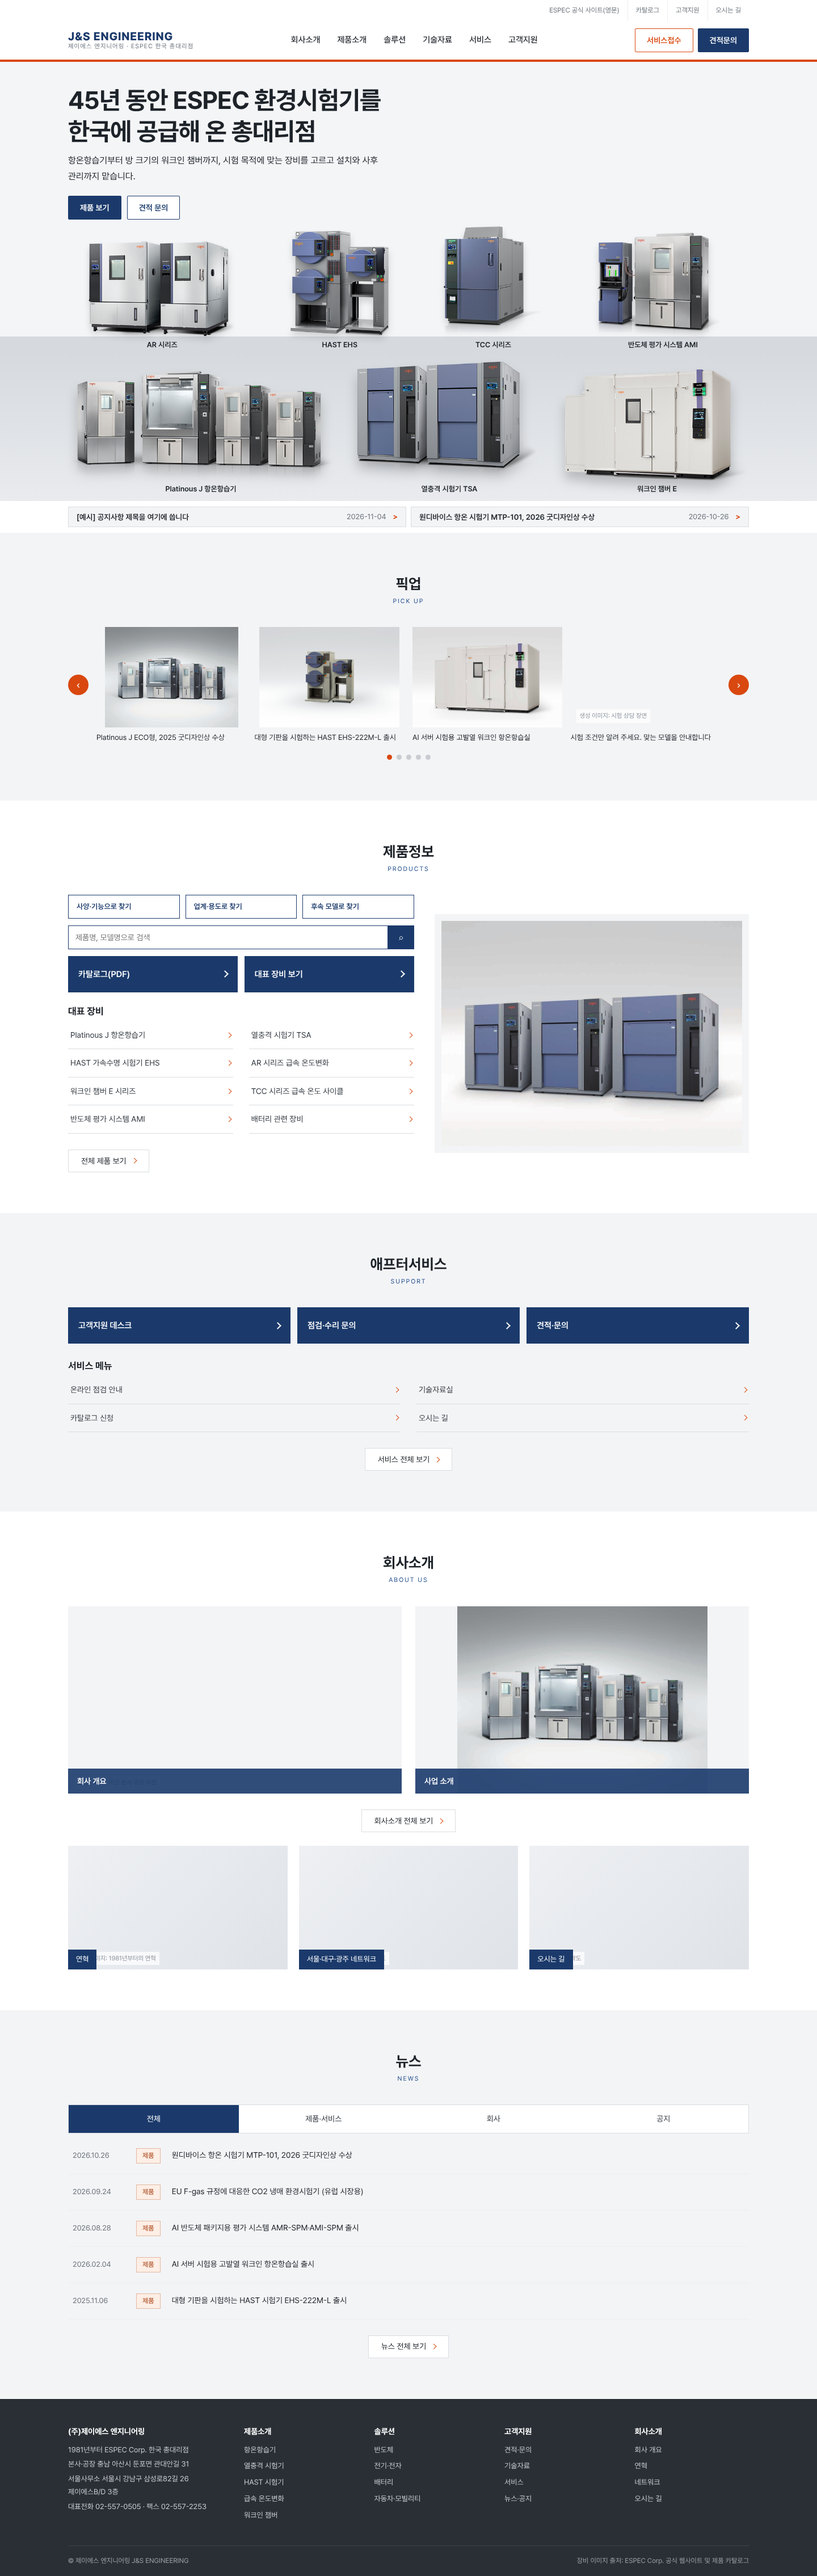
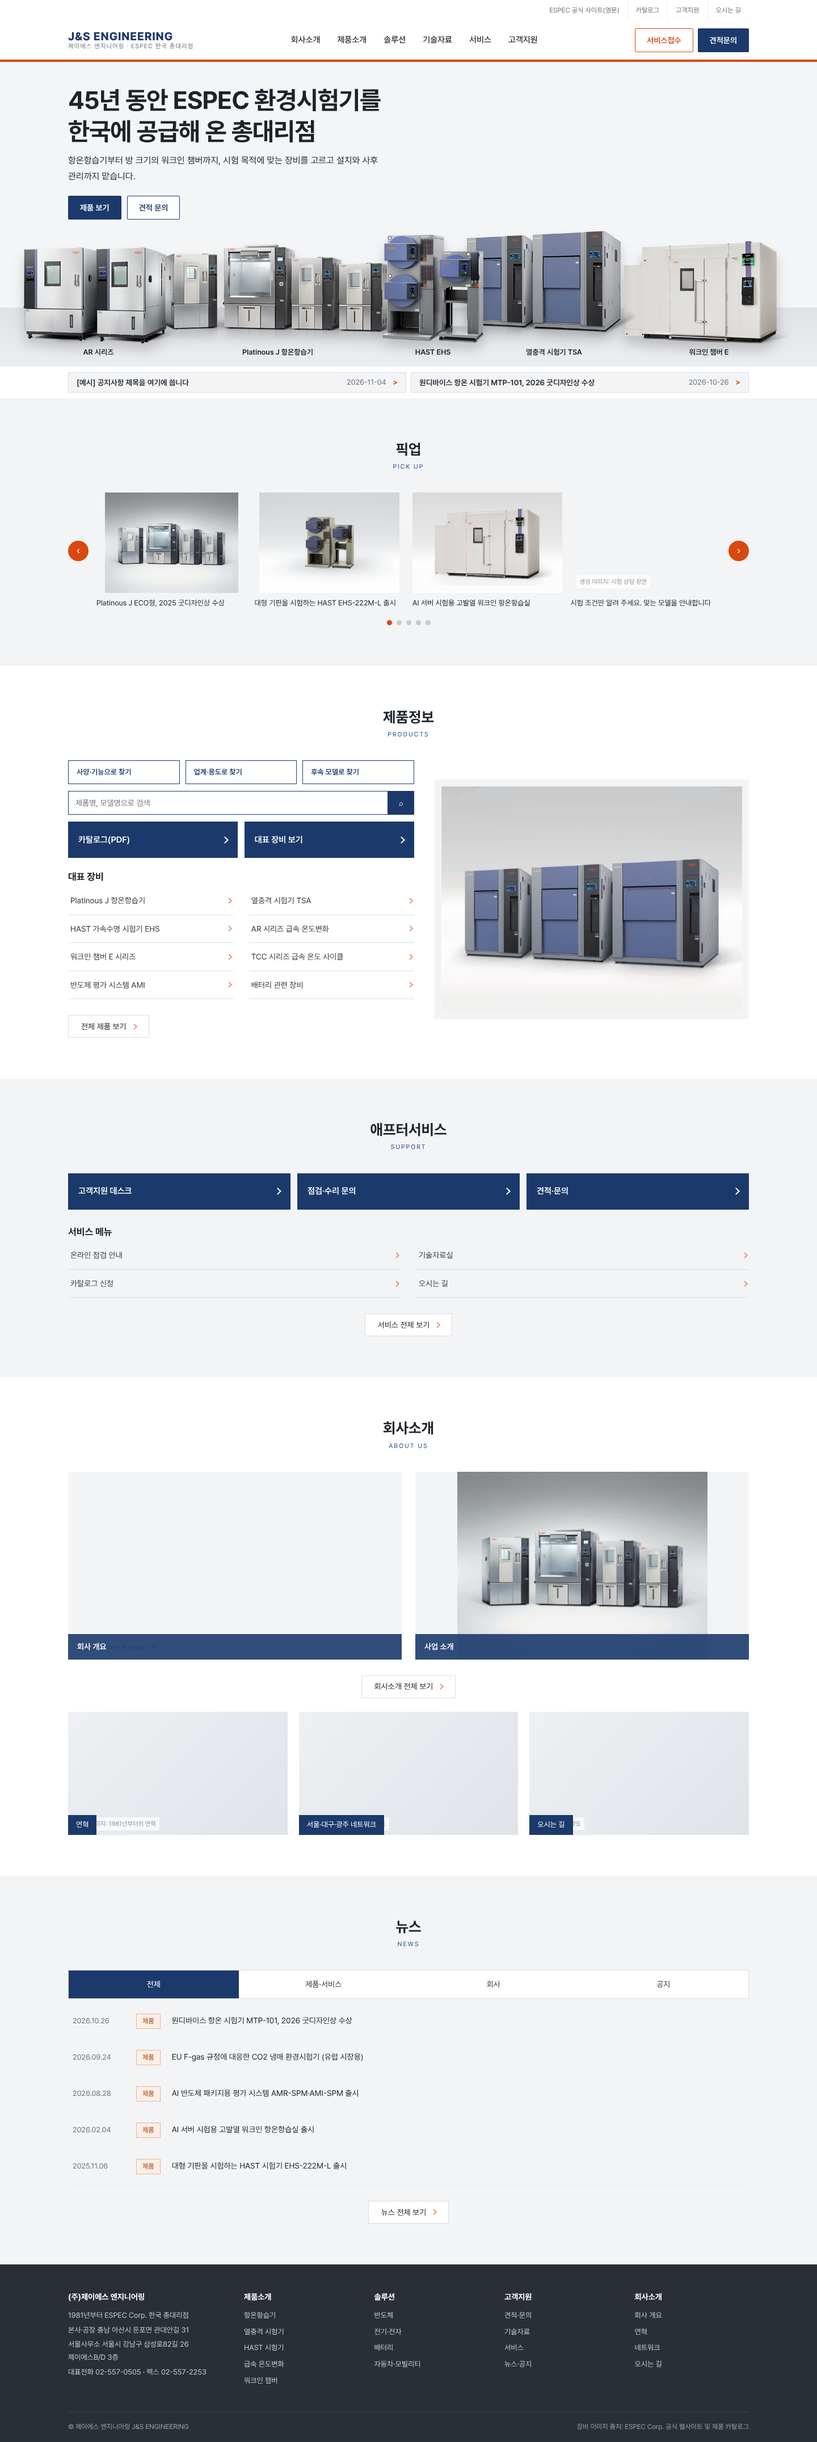
Main concept: back to 5 machines in one row (G1 showroom), G2–G4 heroes trimmed to 5
Claude-Session: https://claude.ai/code/session_01XB7A39iFN7xUh5xw32a7qZ

diff --git a/design/concepts5/main-final.html b/design/concepts5/main-final.html
@@ -22,34 +22,29 @@
 </header>
 
 <main>
-<!-- ============ 첫 화면 G1: 쇼룸 2단 (기본 표시) ============ -->
+<!-- ============ 첫 화면 G1: 쇼룸 5종 한 줄 (기본 표시) ============ -->
 <section class="hero hero--g1" data-hero="g1" aria-labelledby="g1-h">
   <div class="wrap top">
     <h1 id="g1-h">45년 동안 ESPEC 환경시험기를<br>한국에 공급해 온 총대리점</h1>
     <p class="sub">항온항습기부터 방 크기의 워크인 챔버까지, 시험 목적에 맞는 장비를 고르고 설치와 사후 관리까지 맡습니다.</p>
     <div class="btns"><a class="btn" href="#">제품 보기</a><a class="btn btn--line" href="#">견적 문의</a></div>
   </div>
-  <div class="tier tier--back">
-    <div class="wrap"><div class="row">
-      <figure class="b-ar"><a href="#"><img src="../../site/assets/img/web/ar-series-mv.png" width="420" height="262" alt="AR 시리즈 급속 온도변화 시험기"><figcaption>AR 시리즈</figcaption></a></figure>
-      <figure class="b-hast"><a href="#"><img src="../../site/assets/img/web/hast-ehs-mv.png" width="277" height="300" alt="HAST 가속수명 시험기 EHS"><figcaption>HAST EHS</figcaption></a></figure>
-      <figure class="b-tcc"><a href="#"><img src="../../site/assets/img/web/tcc150-mv.png" width="274" height="303" alt="TCC 시리즈 급속 온도 사이클 시험기"><figcaption>TCC 시리즈</figcaption></a></figure>
-      <figure class="b-ami"><a href="#"><img src="../../site/assets/img/web/semicon-ami-mv.png" width="371" height="293" alt="반도체 평가 시스템 AMI"><figcaption>반도체 평가 시스템 AMI</figcaption></a></figure>
-    </div></div>
-  </div>
-  <div class="tier tier--front">
-    <div class="wrap"><div class="row">
-      <figure class="f-pj"><a href="#"><img src="../../site/assets/img/web/platinous-j-mv.png" width="660" height="270" alt="Platinous J 항온항습기"><figcaption>Platinous J 항온항습기</figcaption></a></figure>
-      <figure class="f-tsa"><a href="#"><img src="../../site/assets/img/web/tsa-thermal-shock-mv.png" width="460" height="300" alt="열충격 시험기 TSA"><figcaption>열충격 시험기 TSA</figcaption></a></figure>
-      <figure class="f-wk"><a href="#"><img src="../../site/assets/img/web/walk-in-chamber-tbe-mv.png" width="465" height="280" alt="워크인 챔버 E 시리즈"><figcaption>워크인 챔버 E</figcaption></a></figure>
-    </div></div>
+  <!-- 쇼룸: 대표 장비 5종 한 줄 (살짝 겹쳐 세움) -->
+  <div class="tier tier--one">
+    <div class="row5">
+      <figure class="o-ar"><a href="#"><img src="../../site/assets/img/web/ar-series-mv.png" width="406" height="262" alt="AR 시리즈 급속 온도변화 시험기"><figcaption>AR 시리즈</figcaption></a></figure>
+      <figure class="o-pj"><a href="#"><img src="../../site/assets/img/web/platinous-j-mv.png" width="655" height="269" alt="Platinous J 항온항습기"><figcaption>Platinous J 항온항습기</figcaption></a></figure>
+      <figure class="o-hast"><a href="#"><img src="../../site/assets/img/web/hast-ehs-mv.png" width="277" height="294" alt="HAST 가속수명 시험기 EHS"><figcaption>HAST EHS</figcaption></a></figure>
+      <figure class="o-tsa"><a href="#"><img src="../../site/assets/img/web/tsa-thermal-shock-mv.png" width="469" height="304" alt="열충격 시험기 TSA"><figcaption>열충격 시험기 TSA</figcaption></a></figure>
+      <figure class="o-wk"><a href="#"><img src="../../site/assets/img/web/walk-in-chamber-tbe-mv.png" width="460" height="278" alt="워크인 챔버 E 시리즈"><figcaption>워크인 챔버 E</figcaption></a></figure>
+    </div>
   </div>
 </section>
 
-<!-- ============ 첫 화면 G2: 카탈로그 8칸 ============ -->
+<!-- ============ 첫 화면 G2: 카탈로그 5칸 ============ -->
 <section class="hero hero--g2" data-hero="g2" aria-labelledby="g2-h" hidden>
   <div class="wrap g2-top">
-    <h1 id="g2-h">제품 신뢰성을 확인하는<br>환경시험기 일곱 가지</h1>
+    <h1 id="g2-h">제품 신뢰성을 확인하는<br>환경시험기 다섯 가지</h1>
     <p>제이에스 엔지니어링은 1981년부터 ESPEC 환경시험기를 한국에 공급해 왔습니다. 시험 조건을 알려 주시면 맞는 모델을 안내합니다.</p>
   </div>
   <div class="wrap" style="padding-bottom:40px">
@@ -59,25 +54,20 @@
       <article class="g2-cell"><div class="ph"><img src="assets/catalog/ehs-lineup.jpg" alt="HAST EHS 시리즈 세 대"></div><h2>EHS 시리즈</h2><p class="t">HAST 가속수명 시험기</p><p class="d">고온·고습·가압을 동시에 가해 전자부품의 수명을 짧은 시간에 평가합니다.</p><div class="kpi"><b>0.392MPa</b><small>압력 (Gauge, EHS-412)</small></div><a class="arr" href="#">제품 보기</a></article>
       <article class="g2-cell"><div class="ph"><img src="assets/catalog/ar-pair.jpg" alt="AR 시리즈 두 대"></div><h2>AR 시리즈</h2><p class="t">급속 온도변화 시험기</p><p class="d">온도를 빠르게 오르내려 온도 사이클과 습열 시험을 맡습니다. 2019 굿디자인상.</p><div class="kpi"><b>최대 18K/min</b><small>급속형 온도 변화율</small></div><a class="arr" href="#">제품 보기</a></article>
       <article class="g2-cell"><div class="ph"><img src="assets/catalog/walkin-white.jpg" alt="워크인 챔버 E 시리즈"></div><h2>워크인 챔버 E</h2><p class="t">대형 항온항습 시험실</p><p class="d">사람이 들어가는 방 크기의 시험 공간. 차량, 대형 장비, AI 서버 시험에 씁니다.</p><div class="kpi"><b>4.2 ~ 52.7m³</b><small>용적 (1type ~ 12type)</small></div><a class="arr" href="#">제품 보기</a></article>
-      <article class="g2-cell"><div class="ph"><img src="../../site/assets/img/web/tcc150-mv.png" width="274" height="303" alt="TCC 시리즈 급속 온도 사이클 시험기"></div><h2>TCC 시리즈</h2><p class="t">급속 온도 사이클 시험기</p><p class="d">반도체 패키지와 실장 기판의 열피로 시험을 위해 시험품 온도를 제어하며 급속으로 바꿉니다.</p><div class="kpi"><b>-70 ~ +180°C</b><small>온도 범위 (JEDEC·IPC 규격 대응)</small></div><a class="arr" href="#">제품 보기</a></article>
-      <article class="g2-cell"><div class="ph"><img src="../../site/assets/img/web/semicon-ami-mv.png" width="371" height="293" alt="반도체 평가 시스템 AMI"></div><h2>AMI-SPM</h2><p class="t">반도체 평가 시스템</p><p class="d">미세 배선과 신소재 절연층의 절연 열화를 저전압에서 고정밀로 잡아냅니다.</p><div class="kpi"><b>최대 300ch</b><small>AMI-SPM 랙당 채널</small></div><a class="arr" href="#">제품 보기</a></article>
-      <article class="g2-cell g2-cell--cta"><h2>시험 조건만 알려 주세요</h2><p class="d" style="flex:none">맞는 모델을 안내하고, 장비 소개 PDF를 보내 드립니다.</p><a class="btn" href="#">장비 소개 PDF 받기</a><a class="btn btn--line" href="#">전체 제품 보기</a></article>
     </div>
   </div>
 </section>
 
-<!-- ============ 첫 화면 G3: 탭 전환 7개 (CSS 라디오) ============ -->
+<!-- ============ 첫 화면 G3: 탭 전환 5개 (CSS 라디오) ============ -->
 <section class="hero hero--g3 g3-show" data-hero="g3" aria-labelledby="g3-h" hidden>
   <div class="wrap">
-    <h1 id="g3-h">대표 장비 일곱 가지를 골라 보세요</h1>
+    <h1 id="g3-h">대표 장비 다섯 가지를 골라 보세요</h1>
     <div class="g3-tabs">
       <input type="radio" name="g3tab" id="g3t1" checked aria-label="Platinous J 항온항습기">
       <input type="radio" name="g3tab" id="g3t2" aria-label="열충격 시험기 TSA">
       <input type="radio" name="g3tab" id="g3t3" aria-label="HAST EHS">
       <input type="radio" name="g3tab" id="g3t4" aria-label="AR 시리즈">
       <input type="radio" name="g3tab" id="g3t5" aria-label="워크인 챔버 E">
-      <input type="radio" name="g3tab" id="g3t6" aria-label="TCC 시리즈">
-      <input type="radio" name="g3tab" id="g3t7" aria-label="반도체 평가 시스템 AMI">
       <div class="g3-body">
         <div class="g3-list">
           <label for="g3t1">Platinous J<small>항온항습기</small></label>
@@ -85,8 +75,6 @@
           <label for="g3t3">EHS 시리즈<small>HAST 가속수명 시험기</small></label>
           <label for="g3t4">AR 시리즈<small>급속 온도변화 시험기</small></label>
           <label for="g3t5">워크인 챔버 E<small>대형 항온항습 시험실</small></label>
-          <label for="g3t6">TCC 시리즈<small>급속 온도 사이클 시험기</small></label>
-          <label for="g3t7">AMI-SPM<small>반도체 평가 시스템</small></label>
         </div>
         <div class="g3-stage">
           <article class="g3-panel p1"><div class="pic"><img src="assets/catalog/pj-lineup.jpg" alt="Platinous J 시리즈 네 대"></div>
@@ -109,21 +97,13 @@
             <div class="txt"><h2>워크인 챔버 E 시리즈</h2><p class="lead">사람이 들어가는 방 크기의 시험 공간. 차량, 대형 장비, AI 서버 고발열 시험에 씁니다.</p>
               <dl><div><dt>온도</dt><dd>-40 ~ +80°C (EBE)</dd></div><div><dt>습도</dt><dd>10 ~ 95%rh</dd></div><div><dt>용적</dt><dd>4.2 ~ 52.7m³</dd></div></dl>
               <div class="btns"><a class="btn" href="#">제품 보기</a><a class="btn btn--line" href="#">장비 소개 PDF</a></div></div></article>
-          <article class="g3-panel p6"><div class="pic pic--mv" style="--mw:330px"><img src="../../site/assets/img/web/tcc150-mv.png" width="274" height="303" alt="TCC 시리즈 급속 온도 사이클 시험기"></div>
-            <div class="txt"><h2>TCC 시리즈 급속 온도 사이클</h2><p class="lead">반도체 패키지와 실장 기판의 열피로 시험을 위해 시험품의 온도를 제어하며 급속으로 바꿉니다.</p>
-              <dl><div><dt>온도</dt><dd>-70 ~ +180°C</dd></div><div><dt>변화율</dt><dd>최대 20K/min (모델별)</dd></div><div><dt>규격</dt><dd>JEDEC · IPC 대응</dd></div></dl>
-              <div class="btns"><a class="btn" href="#">제품 보기</a><a class="btn btn--line" href="#">장비 소개 PDF</a></div></div></article>
-          <article class="g3-panel p7"><div class="pic pic--mv" style="--mw:445px"><img src="../../site/assets/img/web/semicon-ami-mv.png" width="371" height="293" alt="반도체 평가 시스템 AMI. 항온항습 챔버 옆에 측정 랙이 놓인 모습"></div>
-            <div class="txt"><h2>반도체 평가 시스템 AMI-SPM</h2><p class="lead">첨단 패키지의 미세 배선과 신소재 절연층에서 생기는 절연 열화를 고정밀로 잡아냅니다.</p>
-              <dl><div><dt>절연 평가</dt><dd>10V 이하 저전압</dd></div><div><dt>채널</dt><dd>25 ~ 300ch/랙</dd></div><div><dt>HAST 연동</dt><dd>자동 시험</dd></div></dl>
-              <div class="btns"><a class="btn" href="#">제품 보기</a><a class="btn btn--line" href="#">장비 소개 PDF</a></div></div></article>
         </div>
       </div>
     </div>
   </div>
 </section>
 
-<!-- ============ 첫 화면 G4: 매거진형 (큰 1 + 카드 6) ============ -->
+<!-- ============ 첫 화면 G4: 매거진형 (큰 1 + 카드 4) ============ -->
 <section class="hero hero--g4" data-hero="g4" aria-labelledby="g4-h" hidden>
   <div class="wrap g4-top">
     <h1 id="g4-h">방 한 칸 크기부터 손바닥 위 부품까지, 신뢰성 시험 장비를 갖췄습니다</h1>
@@ -142,8 +122,6 @@
         <a class="g4-card" href="#"><div class="ph"><img src="assets/catalog/tsa-pair.jpg" alt="열충격 TSA"></div><div class="t"><h3>TSA 시리즈</h3><p>열충격 시험기. 시험품이 움직이지 않습니다</p><b>+200°C 고온 노출</b></div></a>
         <a class="g4-card" href="#"><div class="ph"><img src="assets/catalog/ehs-lineup.jpg" alt="HAST EHS"></div><div class="t"><h3>EHS 시리즈</h3><p>HAST 가속수명 시험기</p><b>0.392MPa</b></div></a>
         <a class="g4-card" href="#"><div class="ph"><img src="assets/catalog/ar-pair.jpg" alt="AR 시리즈"></div><div class="t"><h3>AR 시리즈</h3><p>급속 온도변화 시험기</p><b>최대 18K/min</b></div></a>
-        <a class="g4-card" href="#"><div class="ph"><img src="../../site/assets/img/web/tcc150-mv.png" width="274" height="303" alt="TCC 시리즈"></div><div class="t"><h3>TCC 시리즈</h3><p>급속 온도 사이클 시험기</p><b>-70 ~ +180°C</b></div></a>
-        <a class="g4-card" href="#"><div class="ph"><img src="../../site/assets/img/web/semicon-ami-mv.png" width="371" height="293" alt="반도체 평가 시스템 AMI"></div><div class="t"><h3>AMI-SPM</h3><p>반도체 평가 시스템</p><b>최대 300ch/랙</b></div></a>
       </div>
     </div>
   </div>

diff --git a/design/concepts5/main-final.css b/design/concepts5/main-final.css
@@ -31,10 +31,10 @@
 .b-ar{width:23%;max-width:504px}.b-hast{width:15.5%;max-width:332px}.b-tcc{width:15.5%;max-width:328px}.b-ami{width:20.5%;max-width:445px}
 
 /* ---------- G2 카탈로그 (8칸: 장비 7 + 안내 1) ---------- */
-.hero--g2 .g2-grid{grid-template-columns:repeat(4,minmax(0,1fr))}
+.hero--g2 .g2-grid{grid-template-columns:repeat(5,minmax(0,1fr))}
 .hero--g2 .g2-cell{border-right:1px solid var(--line-2)}
-.hero--g2 .g2-cell:nth-child(4n){border-right:0}
-.hero--g2 .g2-cell:nth-child(n+5){border-top:1px solid var(--line-2)}
+.hero--g2 .g2-cell:nth-child(5n){border-right:0}
+
 .hero--g2 .g2-cell--cta{background:var(--bg-gray);justify-content:center;gap:10px}
 .hero--g2 .g2-cell--cta h2{margin:0}
 .hero--g2 .g2-cell--cta .btn{margin-top:6px}
@@ -81,4 +81,18 @@
   .hero--g4 .g4-card p{display:none}
   .hero--g4 .g4-card div.t{padding:10px}
   .hero--g3 .g3-panel .txt{padding:20px 16px}
+}
+
+/* G1 쇼룸 5종 한 줄 (사용자 요청: 2단 대신 5개 한 줄) — 폭은 원본 가로 비율, 살짝 겹쳐서 크게 */
+.tier--one{background:linear-gradient(#f4f5f7 0%,#f4f5f7 58%,#dfe2e6 58%,#eceef0 100%);padding:8px 0 10px}
+.row5{max-width:1400px;margin:0 auto;padding:0 16px;display:flex;align-items:flex-end;justify-content:center}
+.row5 figure{margin:0;flex:none;position:relative}
+.row5 figure+figure{margin-left:-2.2%}
+.row5 img{width:100%;height:auto;filter:drop-shadow(0 14px 10px rgba(0,0,0,.18))}
+.row5 figcaption{font-size:13px;font-weight:600;color:var(--ink);text-align:center;line-height:30px;white-space:nowrap}
+.o-ar{width:19.4%;z-index:1}.o-pj{width:31.2%;z-index:3}.o-hast{width:13.2%;z-index:4}.o-tsa{width:22.4%;z-index:3}.o-wk{width:21.9%;z-index:2}
+@media (max-width:760px){
+  .row5{flex-wrap:wrap;justify-content:center;gap:4px 10px}
+  .row5 figure+figure{margin-left:0}
+  .row5 .o-pj{width:92%!important;order:-1}.row5 .o-ar,.row5 .o-tsa,.row5 .o-wk{width:44%!important}.row5 .o-hast{width:30%!important}
 }
